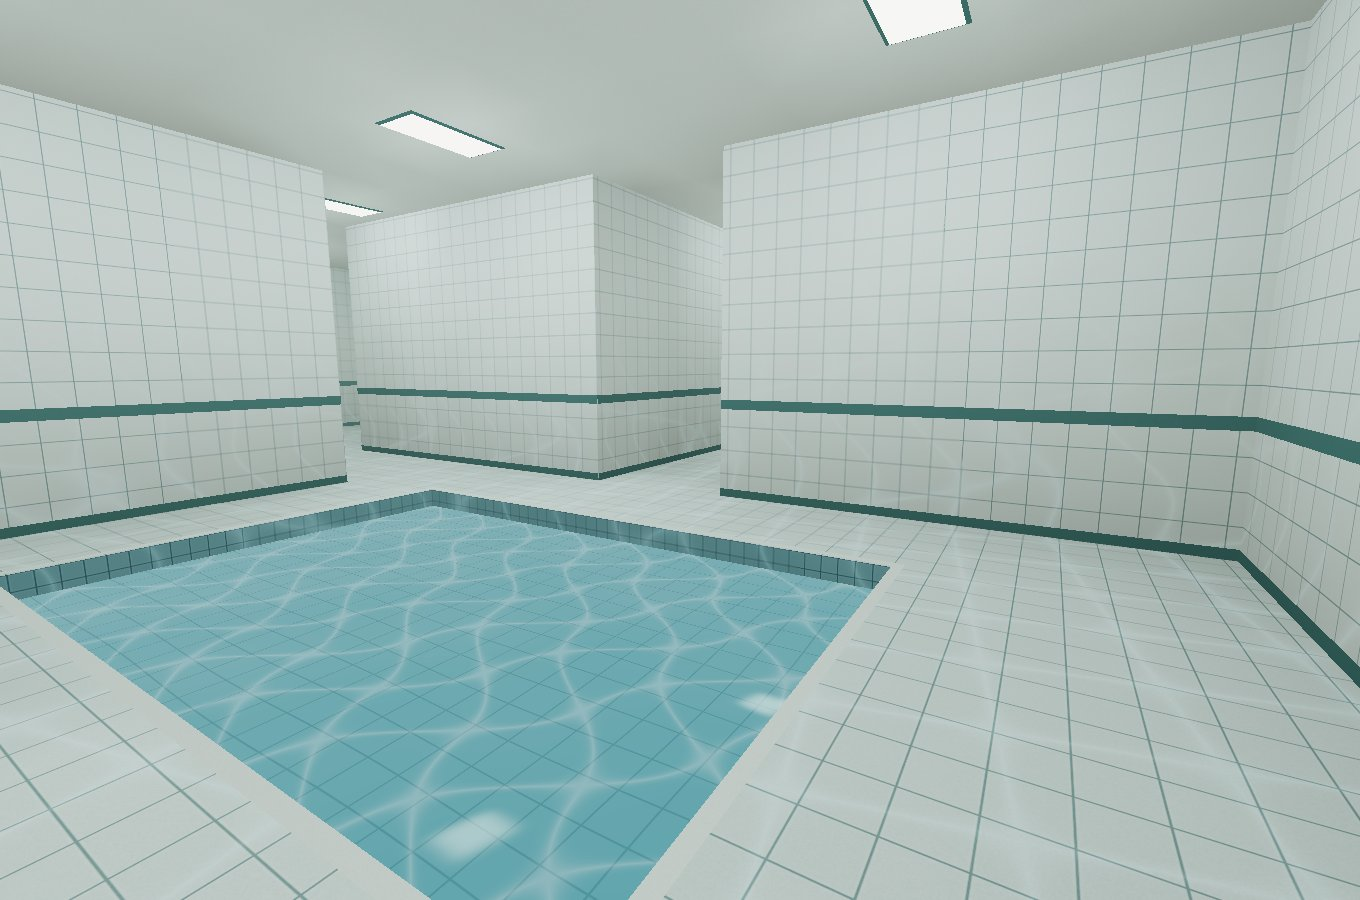
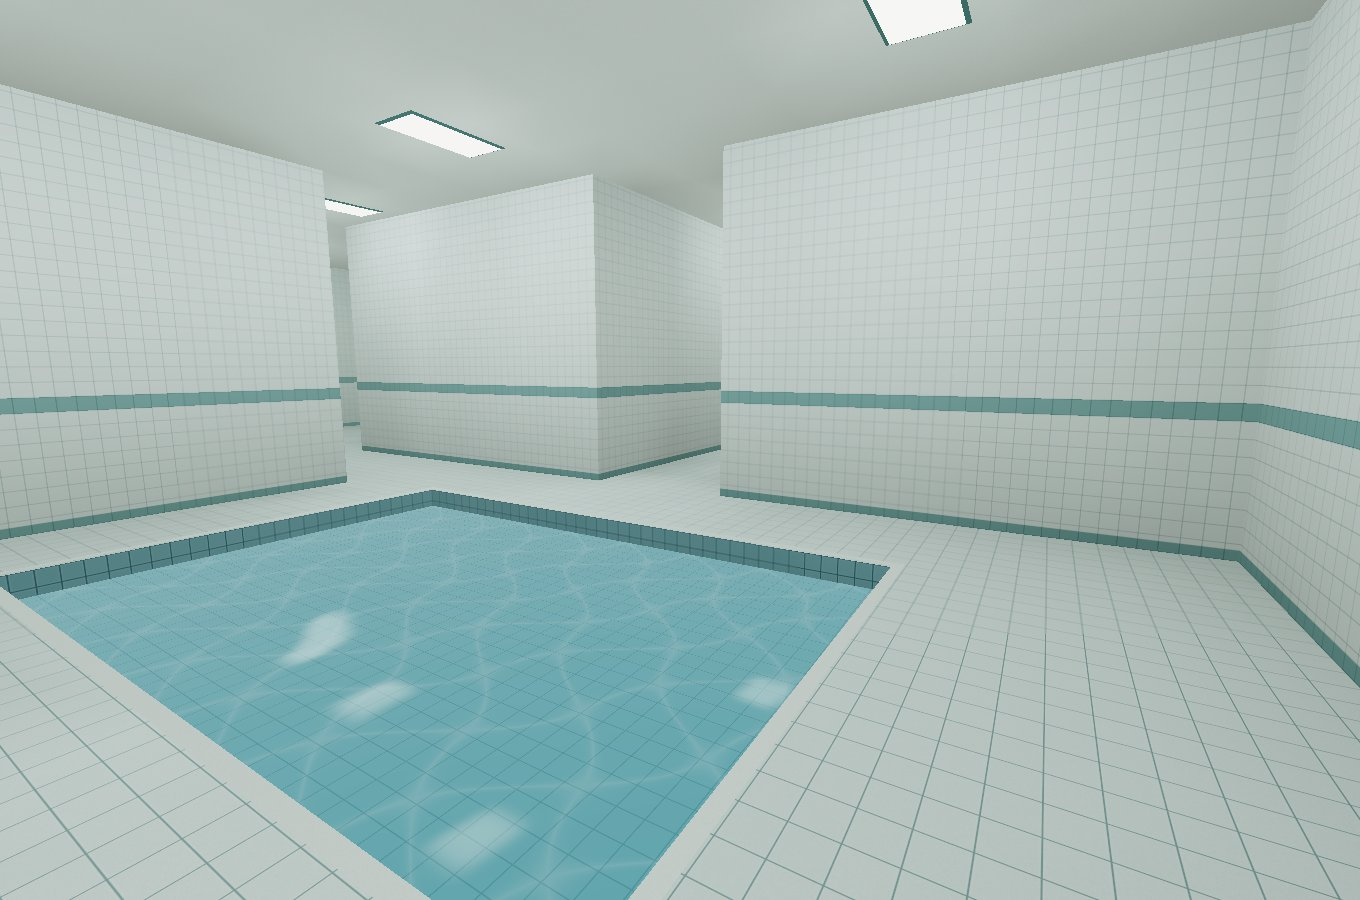
Confine water effects to basins and fix pool wall tile scale and floating trim

diff --git a/architecture.js b/architecture.js
@@ -1,6 +1,6 @@
 import * as THREE from './vendor/three.module.min.js';
 import {floor,WIDTH,DEPTH,rooms,corridors,pools,columns,isFloor,zoneAt,heights,lineOfSight} from './layout.js';
-import {vertexShader,fragmentShader,waterVertex,waterFragment} from './materials.js?v=zones-3';
+import {vertexShader,fragmentShader,waterVertex,waterFragment} from './materials.js?v=pool-fix-4';
 
 export function buildArchitecture(scene,textures,shared){
   const lamps=[];
@@ -59,14 +59,14 @@ export function buildArchitecture(scene,textures,shared){
   }
   function horizontal(material,x,z,w,d,y,up,zone){
     let pts=[[x,y,z+d],[x+w,y,z+d],[x+w,y,z],[x,y,z]];
-    const scale=material==='ceiling'?1.2:material==='yellowFloor'?2:2.4;
+    const scale=material==='ceiling'?1.2:material==='yellowFloor'?2:material==='poolFloor'?1.6:2.4;
     let uv=pts.map(p=>[p[0]/scale,p[2]/scale]);
     if(!up){pts=pts.reverse();uv=uv.reverse();}
     quad(material,pts,[0,up?1:-1,0],uv,zone);
   }
   function wall(material,ax,az,bx,bz,low,high,zone,offset=0){
     const len=Math.hypot(bx-ax,bz-az),n=[-(bz-az)/len,0,(bx-ax)/len];
-    const scale=material==='yellowWall'?1.7:material==='hospitalWall'?heights.hospital:2.4;
+    const scale=material==='yellowWall'?1.7:material==='hospitalWall'?heights.hospital:material==='poolWall'?1.2:2.4;
     const u0=Math.abs(bx-ax)>.01?ax:az,u1=Math.abs(bx-ax)>.01?bx:bz;
     const count=Math.ceil((high-low)/.6);
     for(let i=0;i<count;i++){
@@ -78,8 +78,7 @@ export function buildArchitecture(scene,textures,shared){
   function wallWithTrim(ax,az,bx,bz,h,zone){
     wall(zone+'Wall',ax,az,bx,bz,0,h,zone);
     const trim='trim'+zone[0].toUpperCase()+zone.slice(1);
-    wall(trim,ax,az,bx,bz,.005,.105,zone,.007);
-    if(zone==='pool')wall('trimPool',ax,az,bx,bz,1.12,1.24,zone,.004);
+    if(zone!=='pool')wall(trim,ax,az,bx,bz,.005,.105,zone,.007);
   }
   function floorPieces(x,z){
     let parts=[[x,z,1,1]];
@@ -140,12 +139,17 @@ export function buildArchitecture(scene,textures,shared){
     geo.setAttribute('uv',new THREE.Float32BufferAttribute(g.uv,2));
     geo.setAttribute('light',new THREE.Float32BufferAttribute(g.light,3));geo.computeBoundingSphere();
     const material=new THREE.ShaderMaterial({
-      vertexShader,fragmentShader,uniforms:{...shared,map:{value:textures[name]},atmosphere:{value:name.startsWith('yellow')?1:name.startsWith('hospital')?2:name.startsWith('pool')?3:0},gloss:{value:name==='hospitalFloor'?.23:name==='poolFloor'?.30:0},emission:{value:name==='light'?2.6:0}}
+      vertexShader,fragmentShader,uniforms:{...shared,map:{value:textures[name]},atmosphere:{value:name.startsWith('yellow')?1:name.startsWith('hospital')?2:name==='poolWall'?3:0},gloss:{value:name==='hospitalFloor'?.23:0},emission:{value:name==='light'?2.6:0}}
     });
     const mesh=new THREE.Mesh(geo,material);scene.add(mesh);triangles+=g.p.length/9;
   }
-  const waterMaterial=new THREE.ShaderMaterial({vertexShader:waterVertex,fragmentShader:waterFragment,uniforms:shared});
   for(const p of pools){
+    // Reflections use only lamps visible from this basin, not lamps behind walls.
+    const cx=p.x+p.w/2,cz=p.z+p.d/2;
+    const visible=lamps.filter(l=>l.zone==='pool'&&lineOfSight(cx,cz,l.x,l.z))
+      .sort((a,b)=>Math.hypot(a.x-cx,a.z-cz)-Math.hypot(b.x-cx,b.z-cz)).slice(0,8);
+    const localLamps=Array.from({length:8},(_,i)=>visible[i]?new THREE.Vector3(visible[i].x,visible[i].y,visible[i].z):new THREE.Vector3(1000,1000,1000));
+    const waterMaterial=new THREE.ShaderMaterial({vertexShader:waterVertex,fragmentShader:waterFragment,uniforms:{...shared,lamps:{value:localLamps}}});
     const geo=new THREE.PlaneGeometry(p.w,p.d);geo.rotateX(-Math.PI/2);
     const mesh=new THREE.Mesh(geo,waterMaterial);mesh.position.set(p.x+p.w/2,-.22,p.z+p.d/2);scene.add(mesh);
   }

diff --git a/materials.js b/materials.js
@@ -130,12 +130,11 @@ export const fragmentShader=`
       color*=.91+.09*scuff;
       if(abs(vNormal.y)<.5)color*=.83+.17*smoothstep(0.,.55,vWorld.y);
     }
-    if(atmosphere>2.5){
-      // Soft reflected ripples along the lower tiled walls.
-      float wave=sin(vWorld.x*4.7+vWorld.z*3.8+sin(vWorld.y*5.+time*.5));
-      float crossWave=sin(vWorld.x*2.6-vWorld.z*5.1+time*.42+vWorld.y*3.);
-      float caustic=pow(max(0.,1.-abs(wave+crossWave)*.6),9.);
-      color+=vec3(.035,.065,.07)*caustic*exp(-max(0.,vWorld.y)*.9);
+    if(atmosphere>2.5 && abs(vNormal.y)<.5 && vWorld.y>=0.){
+      // The ceramic band is part of the wall, not a floating overlay plane.
+      float band=step(1.20,vWorld.y)*(1.-step(1.35,vWorld.y));
+      float base=1.-smoothstep(.09,.105,vWorld.y);
+      color*=mix(vec3(1.),vec3(.32,.52,.53),max(band,base));
     }
     vec3 view=normalize(cameraPosition-vWorld);
     if(gloss>0.0 && vNormal.y>.5){
@@ -170,13 +169,14 @@ export const waterFragment=`
   void main(){
     vec2 p=vWorld.xz;
     float a=sin(p.x*3.4+p.y*2.3+time*.65), b=cos(p.x*2.1-p.y*3.8+time*.48);
-    vec3 n=normalize(vec3(a*.027,1.,b*.027));
+    vec3 n=normalize(vec3(a*.012,1.,b*.012));
     vec3 v=normalize(cameraPosition-vWorld);
     float fresnel=pow(1.-max(dot(n,v),0.),3.);
-    vec2 uv=p*4.2+vec2(a,b)*.065;
+    // Same 15 cm mosaic as the basin geometry; only a subtle refraction offset.
+    vec2 uv=p/.15+vec2(a,b)*.035;
     vec2 tile=abs(fract(uv)-.5);
     float grout=smoothstep(.47,.49,max(tile.x,tile.y));
-    float caustic=pow(max(0.,1.-abs(sin(p.x*8.+sin(p.y*5.+time*.3))+cos(p.y*7.-time*.36))*.5),12.)*.085;
+    float caustic=pow(max(0.,1.-abs(sin(p.x*8.+sin(p.y*5.+time*.3))+cos(p.y*7.-time*.36))*.5),12.)*.035;
     vec3 color=mix(vec3(.085,.28,.32),vec3(.22,.40,.43),fresnel);
     color*=1.-grout*.22;color+=caustic;
     vec3 ray=reflect(-v,n);
@@ -184,7 +184,7 @@ export const waterFragment=`
       float t=(lamps[i].y-vWorld.y)/ray.y;
       vec2 d=p+ray.xz*t-lamps[i].xz;
       float patch=exp(-pow(d.x*2.3,4.)-pow(d.y*1.6,4.));
-      color+=vec3(.65,.79,.72)*patch*(.25+.65*fresnel);
+      color+=vec3(.65,.79,.72)*patch*(.15+.35*fresnel);
     }
     float dist=length(cameraPosition-vWorld);
     color=mix(color,fogColor,min(.7,1.-exp(-fogDensity*fogDensity*dist*dist)));

diff --git a/engine.js b/engine.js
@@ -1,6 +1,6 @@
 import * as THREE from './vendor/three.module.min.js';
-import {createTextures} from './materials.js?v=zones-3';
-import {buildArchitecture} from './architecture.js?v=zones-3';
+import {createTextures} from './materials.js?v=pool-fix-4';
+import {buildArchitecture} from './architecture.js?v=pool-fix-4';
 import {zoneAt,movePlayer,heights} from './layout.js';
 import {installTouchControls,createJump} from './controls.js?v=touch-1';
 

diff --git a/index.html b/index.html
@@ -16,6 +16,6 @@
     <button type="button" data-action="jump">Salta</button>
   </div>
   <noscript>Attiva JavaScript per esplorare FLOOR 05.</noscript>
-  <script type="module" src="engine.js?v=zones-3"></script>
+  <script type="module" src="engine.js?v=pool-fix-4"></script>
 </body>
 </html>

diff --git a/README.md b/README.md
@@ -14,7 +14,7 @@ Il rendering usa Three.js r170 incluso nel repository, texture procedurali, illu
 
 La zona gialla usa carta da parati procedurale ispirata ai riferimenti forniti: doppie righe, chevron consumati e trama tessuta. Moquette a fibre corte, angoli più scuri e neon di intensità diversa. Il ronzio varia con la distanza dalle lampade. Le oscillazioni luminose sono lente e leggere; si fermano con la preferenza di sistema per il movimento ridotto. Nessuna immagine di riferimento viene scaricata durante il gioco.
 
-L'ospedale ha vernice bicolore consumata, linoleum con giunture e segni leggeri, luce fredda non uniforme e ventilazione ovattata. Le piscine hanno fughe più definite, acqua azzurra con riflessi e caustiche animate, riverberi sulle superfici e gocce occasionali con eco. I suoni cambiano gradualmente attraversando le zone; il suono della piscina sfuma quando si esce. Gli effetti d'acqua sono stilizzati, senza riflessioni ray tracing, per contenere il costo sui dispositivi mobili.
+L'ospedale ha vernice bicolore consumata, linoleum con giunture e segni leggeri, luce fredda non uniforme e ventilazione ovattata. Le piscine hanno piastrelle da 15 cm sulle pareti e da 20 cm sul pavimento, una fascia ceramica integrata nella parete e gocce occasionali con eco. Increspature e riflessi sono confinati ai piani d'acqua delle vasche: pareti e pavimenti asciutti non hanno animazioni acquatiche né riflessi dei neon. Ogni vasca riflette solo lampade visibili dal proprio centro. I suoni cambiano gradualmente attraversando le zone; il suono della piscina sfuma quando si esce. Gli effetti d'acqua sono stilizzati, senza riflessioni ray tracing, per contenere il costo sui dispositivi mobili.
 
 Verifica della pianta: `node verify-layout.mjs`. Il test controlla la raggiungibilità con il raggio del giocatore, le tre zone, la posizione iniziale e le collisioni con pareti e vasche.
 
